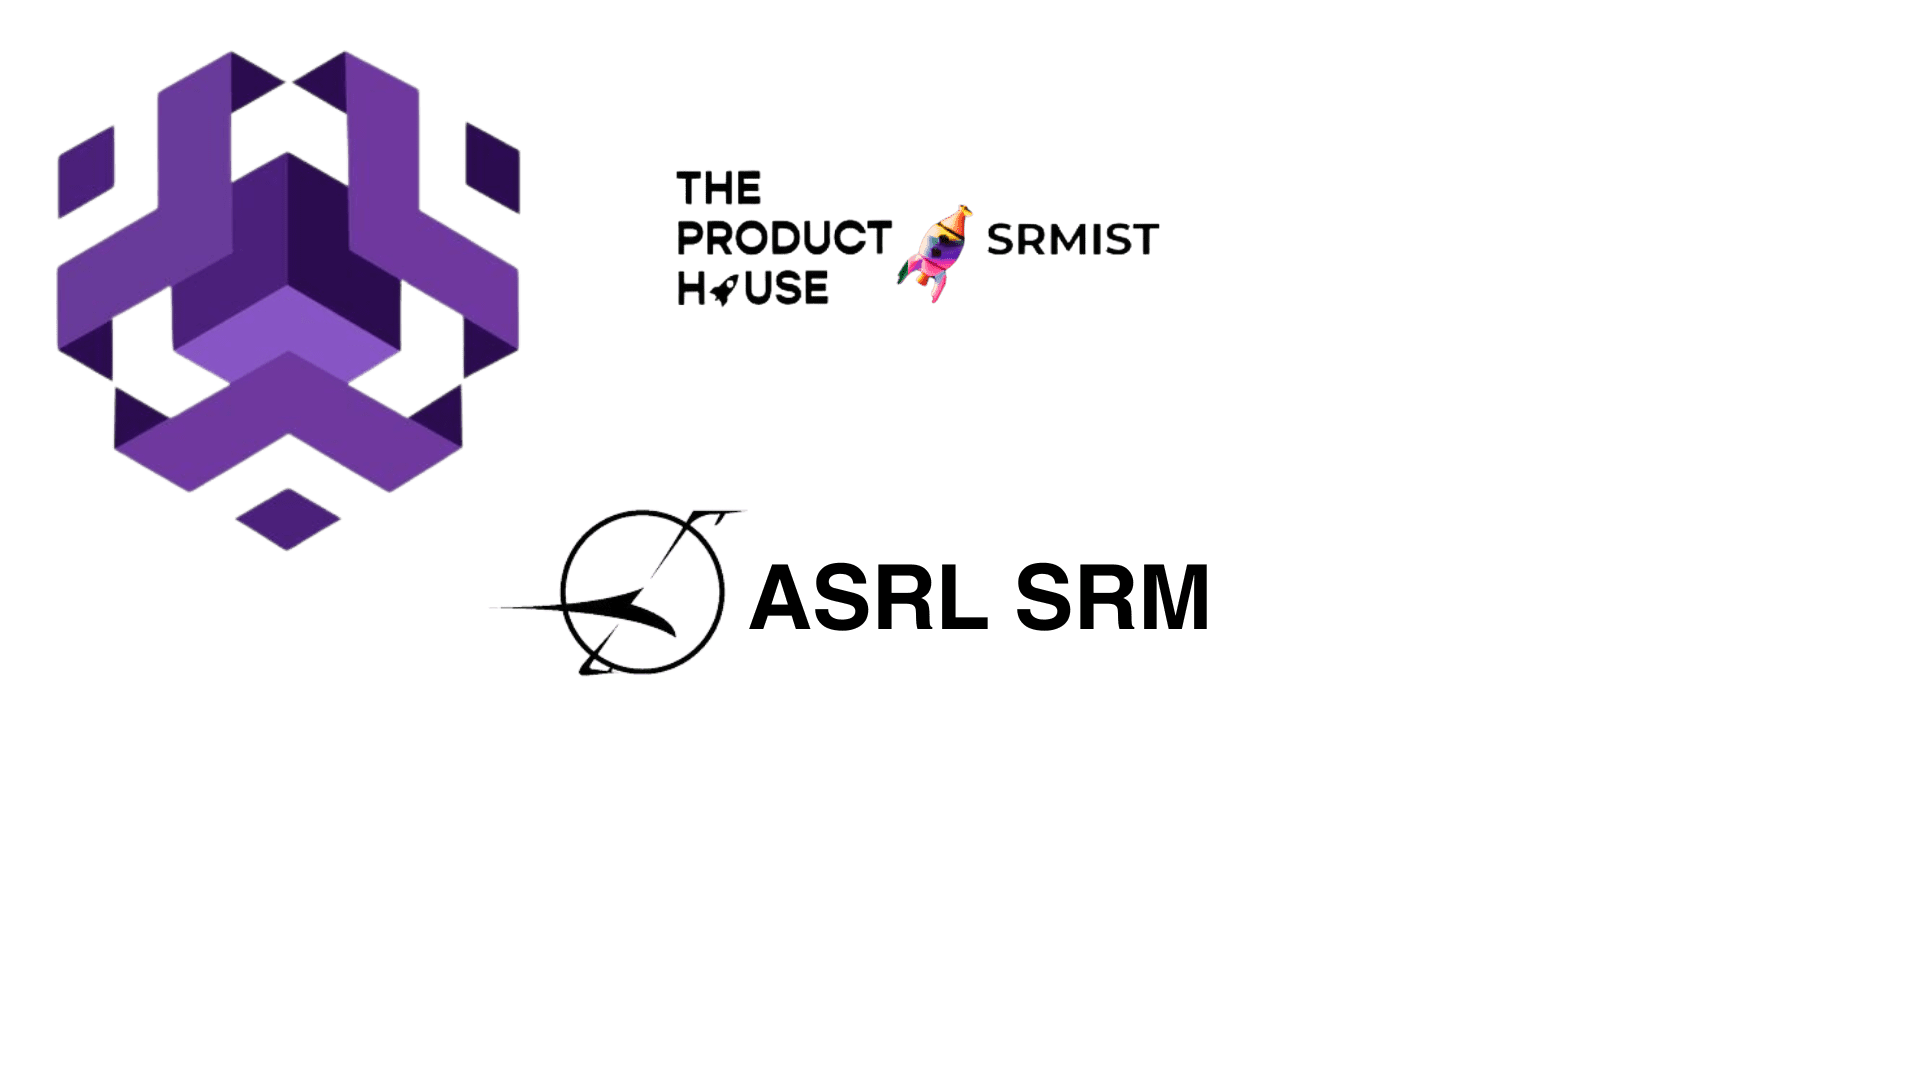
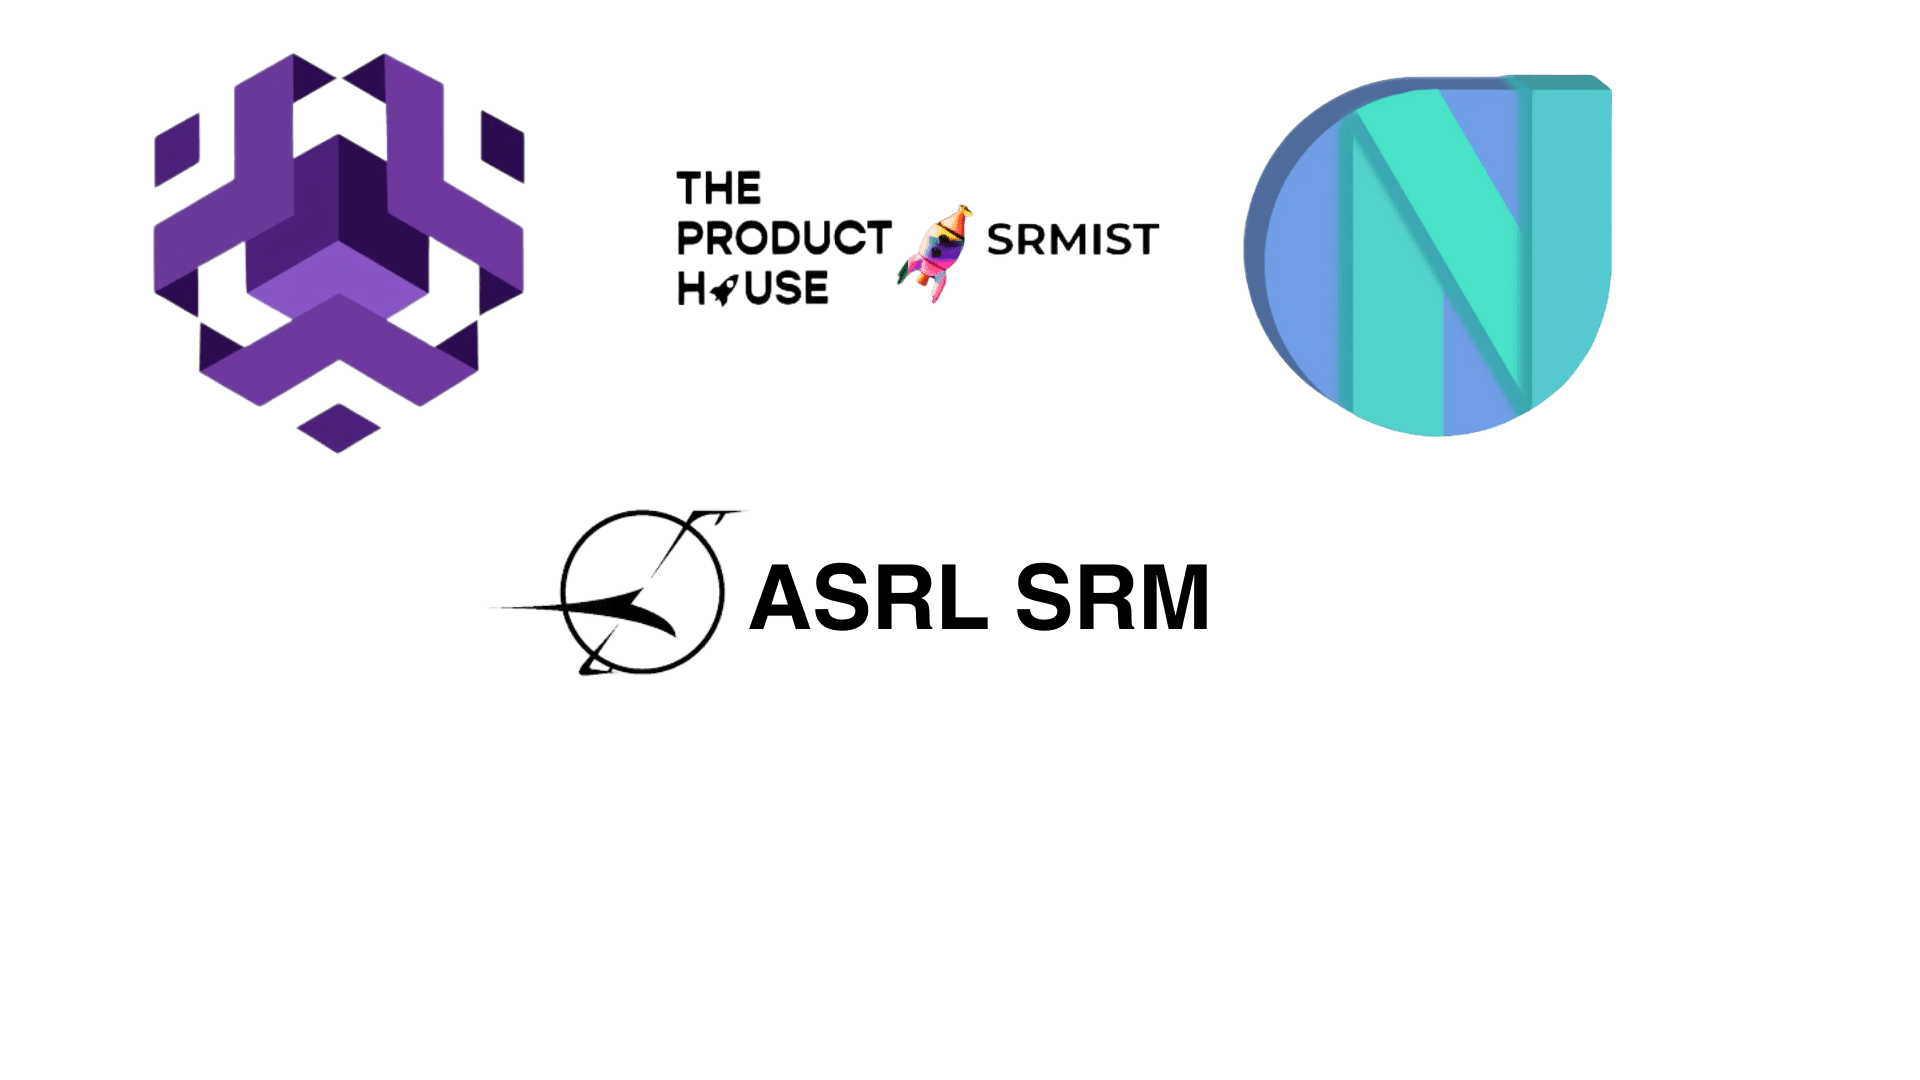
a

diff --git a/src/pages/landing/Landing.js b/src/pages/landing/Landing.js
@@ -154,7 +154,7 @@ function Landing() {
   className="bg-white shadow-xl from-primary to-primary/90 p-4 text-black text-center sm:text-xs md:text-base lg:text-lg"
   style={{ borderRadius: "12px", fontWeight: "bold", maxWidth: "90%", width: "100%", lineHeight: "1", padding: "8px 16px" }}
 >
-  🔔 Any updates will be intimated here 🔔
+  🔔 Website will launch on 8 Feb 11:00AM IST🔔
 </Link>
 
           <div
@@ -210,6 +210,7 @@ function Landing() {
   <li className="mb-2">1. Data Science Community SRM</li>
   <li className="mb-2">2. The Product House x SRMIST</li>
   <li className="mb-2">3. Aerospace Systems Research Laboratory </li>
+  <li className="mb-2">4. Newton School Coding Club SRM </li>
   </ol>
         </div>
       </section>
